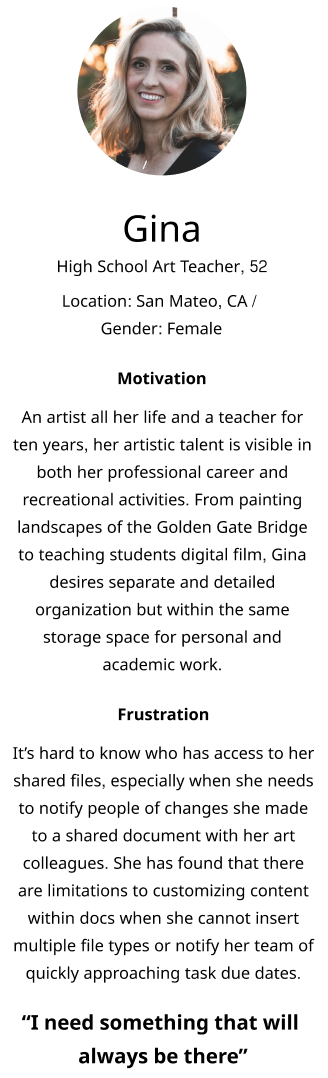
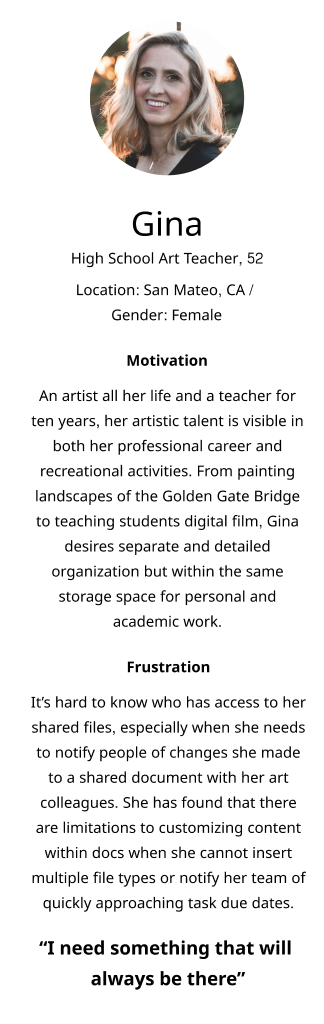
new updated

Changed region(s): [[0.0309, 0.3438, 0.9568, 1.0], [0.1852, 0.0, 0.8025, 0.3125]]

diff --git a/styles/project.css b/styles/project.css
@@ -437,13 +437,15 @@ h4 {
   max-width: 220px;
 }
 
-.personas {
-  width: 900px;
-  display: block;
-  margin-left: auto;
-  margin-right: auto;
-  padding-top: 25px;
-  padding-bottom: 30px;
+.row {
+  display: flex;
+}
+
+.column {
+  flex: 33.33%;
+  padding-left: 0px;
+  padding-top: 20px;
+  margin-bottom: -70px;
 }
 
 .flow {
@@ -776,11 +778,15 @@ p {
   .competitive_03 {
     max-width: 75px;
   }
-  .persona {
-    width: 300px;
-    margin-left: 0px;
+  .row {
+    display: block;
+    margin-left: -13px;
+  }
+  .column {
+    flex: 33.33%;
+    padding-left: 0px;
     padding-top: 10px;
-    padding-bottom: 30px;
+    margin-bottom: 20px;
   }
   .flow {
     width: 360px;
@@ -841,13 +847,6 @@ p {
 
 /* tablet */
 @media screen and (min-width: 768px) {
-  .button_container {
-    display: none;
-  }
-}
-
-/* tablet 2 */
-@media screen and (min-width: 1024px) {
   .button_container {
     display: none;
   }

diff --git a/project1.html b/project1.html
@@ -219,11 +219,17 @@
         two vastly different personas to embody the full range of Cube Cloud’s
         target audience.
       </h4>
-
-      <img class="persona" src="images/persona1.png" alt="personas" />
-      <img class="persona" src="images/persona2.png" alt="personas" />
-      <img class="persona" src="images/persona3.png" alt="personas" />
-
+      <div class="row">
+        <div class="column">
+          <img class="persona1" src="images/persona1.png" alt="personas" />
+        </div>
+        <div class="column">
+          <img class="persona2" src="images/persona2.png" alt="personas" />
+        </div>
+        <div class="column">
+          <img class="persona3" src="images/persona3.png" alt="personas" />
+        </div>
+      </div>
       <!-- Personas -->
 
       <img class="icons" src="images/map.png" alt="map" />
